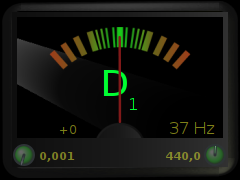
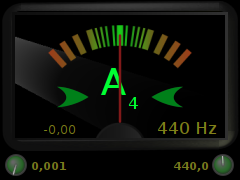
* add tuning indicator to the view  * add mini cents to the view when cents<1  * new screenshot

diff --git a/gxtuner.cpp b/gxtuner.cpp
@@ -26,7 +26,7 @@
 
 #include <string.h> 
 #include <math.h>
-
+#include <stdlib.h>
 #define P_(s) (s)   // FIXME -> gettext
 
 enum {
@@ -50,6 +50,7 @@ static const double rect_width = 100;
 static const double rect_height = 60;
 
 static int cents = 0;
+static float mini_cents = 0.0;
 
 static const double dashes[] = {
     0.0,                      /* ink  */
@@ -257,6 +258,20 @@ static double log_scale(int cent, double set) {
     } else return set;
 }
 
+static void gx_tuner_triangle(cairo_t *cr, double posx, double posy, double width, double height)
+{
+	double h2 = height/2.0;
+    cairo_move_to(cr, posx, posy-h2);
+    if (width > 0) {
+        cairo_curve_to(cr,posx, posy-h2, posx+10, posy, posx, posy+h2);
+    } else {
+        cairo_curve_to(cr,posx, posy-h2, posx-10, posy, posx, posy+h2);
+    }
+    cairo_curve_to(cr,posx, posy+h2, posx+width/2, posy+h2, posx+width, posy);
+    cairo_curve_to(cr, posx+width, posy, posx+width/2, posy-h2, posx, posy-h2);
+	cairo_fill(cr);
+}
+
 static gboolean gtk_tuner_expose (GtkWidget *widget, cairo_t *cr) {
     static const char* note[12] = {"A ","A#","B ","C ","C#","D ","D#","E ","F ","F#","G ","G#"};
     static const char* octave[9] = {"0","1","2","3","4","4","6","7"," "};
@@ -347,12 +362,30 @@ static gboolean gtk_tuner_expose (GtkWidget *widget, cairo_t *cr) {
     cairo_show_text(cr, s);
     // display cent
     if(scale>-0.4) {
-        if(scale>-0.002) {
+        if(scale>0.004) {
             cents = static_cast<int>((floorf(scale * 10000) / 50));
             snprintf(s, sizeof(s), "+%i", cents);
-        } else {
+            cairo_set_source_rgb (cr, 0.05, 0.5+0.022* abs(cents), 0.1);
+            gx_tuner_triangle(cr, x0+80, y0+40, -15, 10);
+            cairo_set_source_rgb (cr, 0.5+ 0.022* abs(cents), 0.35, 0.1);
+            gx_tuner_triangle(cr, x0+20, y0+40, 15, 10);
+        } else if(scale<-0.004) {
             cents = static_cast<int>((ceil(scale * 10000) / 50));
             snprintf(s, sizeof(s), "%i", cents);
+            cairo_set_source_rgb (cr, 0.05, 0.5+0.022* abs(cents), 0.1);
+            gx_tuner_triangle(cr, x0+20, y0+40, 15, 10);
+            cairo_set_source_rgb (cr, 0.5+ 0.022* abs(cents), 0.35, 0.1);
+            gx_tuner_triangle(cr, x0+80, y0+40, -15, 10);
+        } else {
+            cents = static_cast<int>((ceil(scale * 10000) / 50));
+            mini_cents = (scale * 10000) / 50;
+            if (mini_cents<0)
+                snprintf(s, sizeof(s)-4, "%f", mini_cents);
+            else
+                snprintf(s, sizeof(s)-4, "+%f", mini_cents);
+            cairo_set_source_rgb (cr, 0.05* abs(cents), 0.5, 0.1);
+            gx_tuner_triangle(cr, x0+80, y0+40, -15, 10);
+            gx_tuner_triangle(cr, x0+20, y0+40, 15, 10);
         }
     } else {
         cents = 100;
@@ -464,6 +497,12 @@ static void draw_background(cairo_surface_t *surface) {
     cairo_set_source (cr, pat);
     cairo_set_line_width(cr, 1.0);
     cairo_stroke(cr);
+    
+    cairo_set_source_rgb(cr,0.1,0.1,0.1);
+    gx_tuner_triangle(cr, x0+20, y0+40, 15, 10);
+    gx_tuner_triangle(cr, x0+80, y0+40, -15, 10);
+    cairo_stroke(cr);
+
     
     // indicator shaft (circle)
     /*cairo_set_dash (cr, dash_ind, sizeof(dash_ind)/sizeof(dash_ind[0]), 0);
